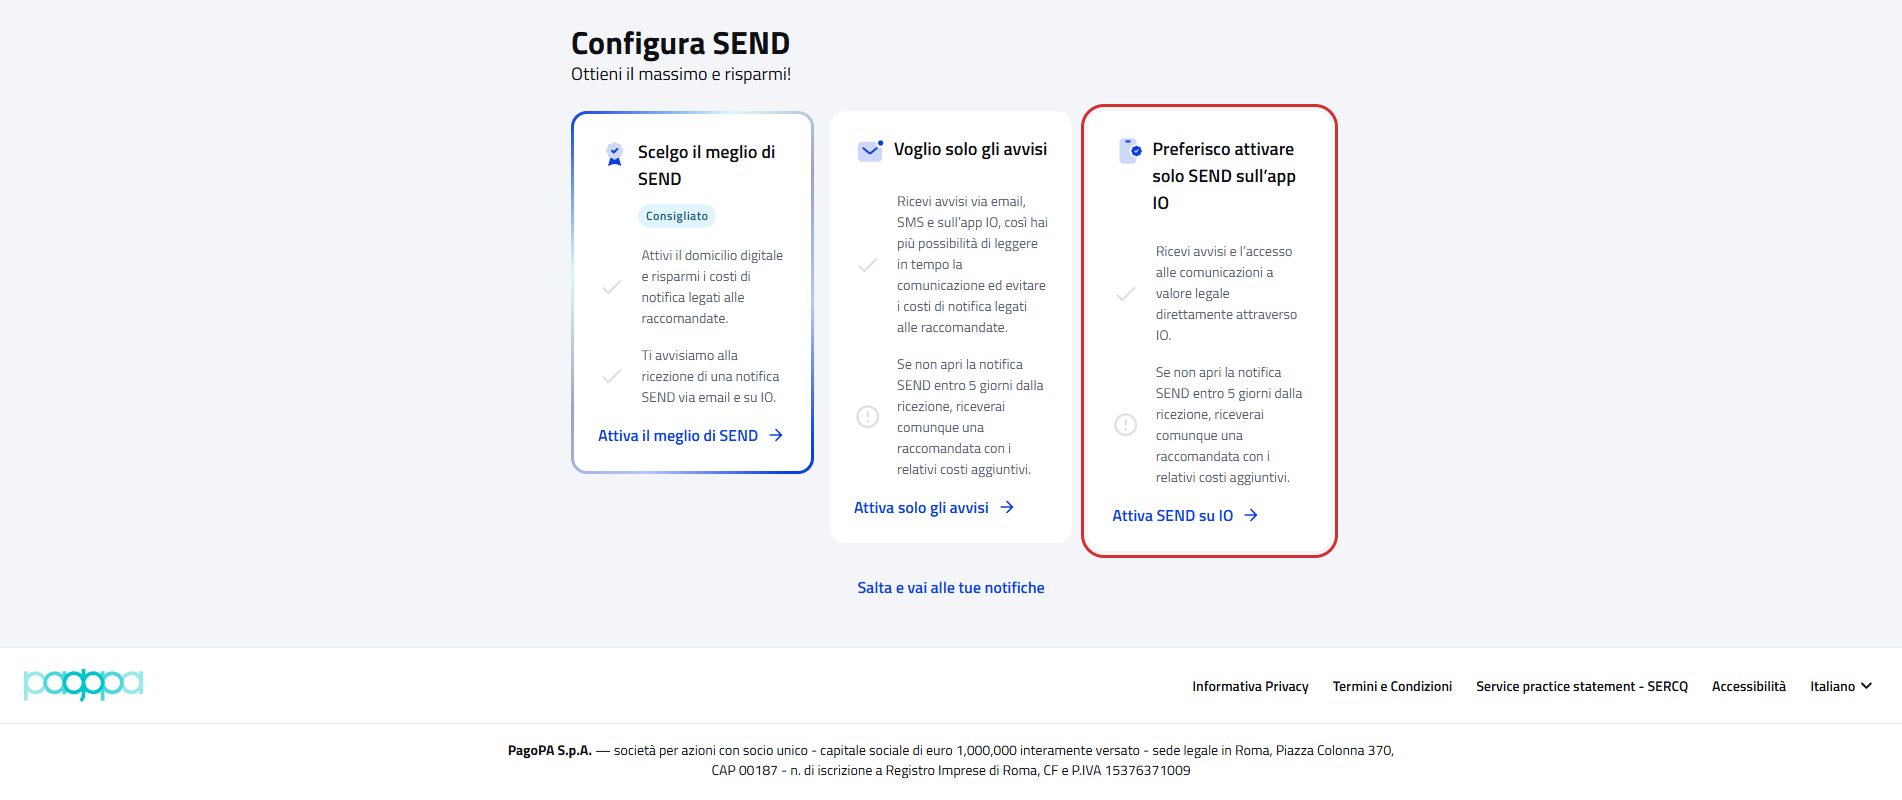
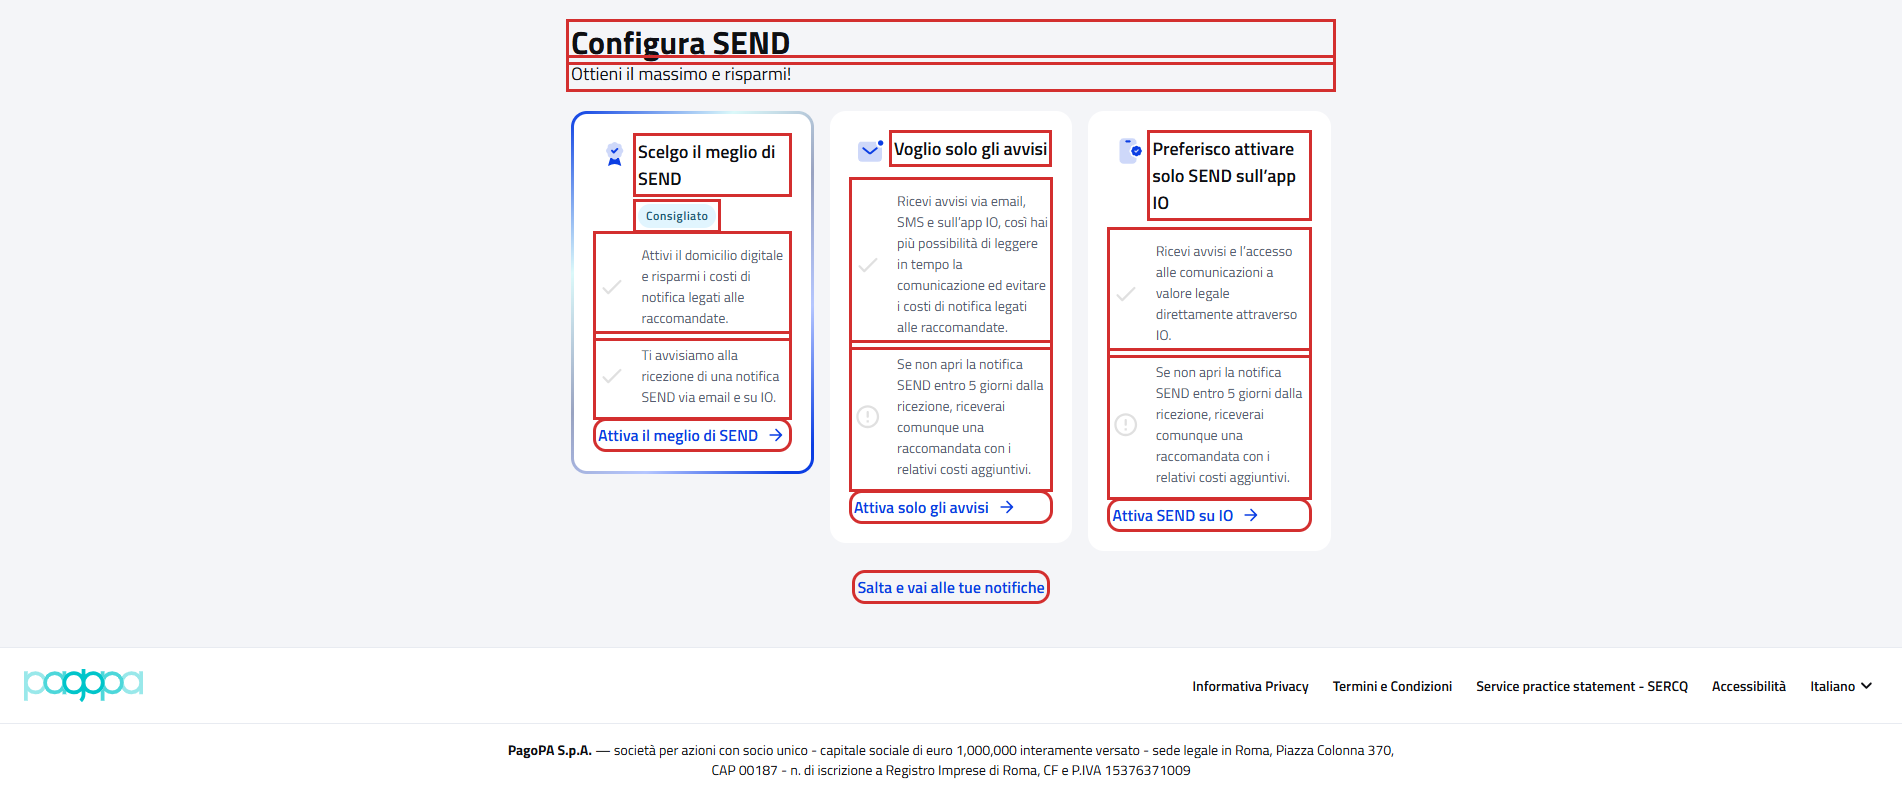
feat: [QA-17652] show the elements verified by each PF contract test

diff --git a/send/docs/pagine-pf/WebOnboardingDigitalDomicilePFContractTest.md b/send/docs/pagine-pf/WebOnboardingDigitalDomicilePFContractTest.md
@@ -10,12 +10,6 @@ Contract test del wizard di onboarding **"Il meglio di SEND"** del cittadino.
 - **Test di navigazione della pagina:** `WebRecipientPfNavigationContractTest#shouldReachOnboardingDigitalDomicilePF`,
   descritto in [WebRecipientPfNavigationContractTest.md](WebRecipientPfNavigationContractTest.md#onboarding-il-meglio-di-send)
 
-## La pagina
-
-![Il meglio di SEND](img/OnboardingDigitalDomicilePFPage.png)
-
-In rosso gli elementi verificati dall'`assertLoaded()`: titolo, "Esci" e indicatore dei passi.
-
 ## Cosa verifica
 
 L'`assertLoaded()` della pagina verifica solo che sia caricata, e quello di ogni passo che ci sia il titolo del passo.
@@ -45,6 +39,8 @@ I testi del blocco "Attiva SEND sull'app IO" sono gli stessi della pagina "Tutto
 
 ## Scenari
 
+Negli screenshot dei passi: in rosso gli elementi che il contract test legge e verifica, esclusi i messaggi di validazione.
+
 ### Testi comuni a tutti i passi (`shouldShowDigitalDomicileWizardTexts`)
 
 | Scenario | Cosa verifica |
@@ -59,11 +55,11 @@ I testi del blocco "Attiva SEND sull'app IO" sono gli stessi della pagina "Tutto
 
 Utente con PEC in attivazione (Lucrezia):
 
-![Passo 1, PEC in attivazione](img/OnboardingDigitalDomicilePFPage_ChooseDigitalDomicileSection.png)
+![Passo 1, PEC in attivazione](img/WebOnboardingDigitalDomicilePFContractTest/passo-1.png)
 
 Utente senza PEC:
 
-![Passo 1, scelta tra SEND e PEC](img/OnboardingDigitalDomicilePFPage_ChooseDigitalDomicileSection_scelta.png)
+![Passo 1, scelta tra SEND e PEC](img/WebOnboardingDigitalDomicilePFContractTest/passo-1-scelta.png)
 
 ### Passo 2 (`shouldShowPecSection`)
 
@@ -71,7 +67,7 @@ Utente senza PEC:
 |---|---|
 | se raggiungibile, passo associa una casella di posta con la PEC dell'utente | titolo, descrizione, etichetta "Indirizzo PEC" con la PEC, frase sugli avvisi con l'email, "Modifica", "Indietro" e "Continua" |
 
-![Passo 2](img/OnboardingDigitalDomicilePFPage_PecSection.png)
+![Passo 2](img/WebOnboardingDigitalDomicilePFContractTest/passo-2.png)
 
 ### Passo 3 (`shouldShowIoSection`)
 
@@ -79,7 +75,7 @@ Utente senza PEC:
 |---|---|
 | se raggiungibile, passo attiva gli avvisi su IO | titolo e descrizione del blocco IO, "Scarica l'app IO", "Ho già scaricato e installato l'app", "Indietro" e "Continua senza l'app IO" |
 
-![Passo 3](img/OnboardingDigitalDomicilePFPage_IoSection.png)
+![Passo 3](img/WebOnboardingDigitalDomicilePFContractTest/passo-3.png)
 
 ### Passo 4 (`shouldShowSummarySection`)
 
@@ -87,7 +83,7 @@ Utente senza PEC:
 |---|---|
 | se raggiungibile, passo riepilogo con conferma non premuta | titolo "Il tuo riepilogo", le due etichette del riepilogo, l'avviso "Monitora i recapiti che hai scelto…", "Indietro" e "Conferma" (non premuto) |
 
-![Passo 4](img/OnboardingDigitalDomicilePFPage_SummarySection.png)
+![Passo 4](img/WebOnboardingDigitalDomicilePFContractTest/passo-4.png)
 
 ### Validazioni (`shouldValidatePecSectionEmail`)
 

diff --git a/send/docs/pagine-pf/WebNewDelegationPFContractTest.md b/send/docs/pagine-pf/WebNewDelegationPFContractTest.md
@@ -34,6 +34,22 @@ Il form ha due livelli di validazione:
 Per questo gli scenari di validazione compilano i campi obbligatori, così il browser lascia passare l'invio e il
 portale mostra i propri messaggi.
 
+## Elementi verificati
+
+In rosso gli elementi che il contract test legge e verifica, esclusi i messaggi di validazione.
+
+All'apertura (persona fisica, tutti gli enti):
+
+![Aggiungi una delega](img/WebNewDelegationPFContractTest/pagina.png)
+
+Persona giuridica: la ragione sociale al posto di nome e cognome:
+
+![persona giuridica](img/WebNewDelegationPFContractTest/persona-giuridica.png)
+
+Solo enti selezionati, con l'elenco degli enti aperto:
+
+![solo enti selezionati](img/WebNewDelegationPFContractTest/solo-enti-selezionati.png)
+
 ## Scenari
 
 Il test è diviso in quattro gruppi, uno per aspetto della pagina. I nomi sono quelli che compaiono nel report dei
@@ -82,34 +98,3 @@ test; i testi attesi sono costanti in cima alla classe.
 | termine delega con data impossibile | "Data errata" uscendo dal campo, con il 31 febbraio |
 | termine delega con data incompleta | "Data errata" uscendo dal campo, con solo giorno e mese |
 
-## Stati verificati
-
-Gli screenshot mostrano lo stato della pagina negli scenari che modificano il form.
-
-**codice fiscale non valido**
-
-![codice fiscale non valido](img/WebNewDelegationPFContractTest/codice-fiscale-non-valido.png)
-
-**nome con spazi all'inizio o alla fine**
-
-![nome con spazi all'inizio o alla fine](img/WebNewDelegationPFContractTest/nome-con-spazi.png)
-
-**persona giuridica: ragione sociale al posto di nome e cognome**
-
-![persona giuridica](img/WebNewDelegationPFContractTest/persona-giuridica.png)
-
-**persona giuridica con codice fiscale non numerico**
-
-![persona giuridica con codice fiscale non numerico](img/WebNewDelegationPFContractTest/persona-giuridica-codice-fiscale-non-numerico.png)
-
-**solo enti selezionati: compare la scelta degli enti** (il fumetto è la validazione del browser sul campo vuoto)
-
-![solo enti selezionati](img/WebNewDelegationPFContractTest/solo-enti-selezionati.png)
-
-**solo enti selezionati: l'elenco degli enti contiene almeno un ente**
-
-![elenco degli enti](img/WebNewDelegationPFContractTest/elenco-enti.png)
-
-**termine delega vuoto**
-
-![termine delega vuoto](img/WebNewDelegationPFContractTest/termine-delega-vuoto.png)

diff --git a/send/docs/pagine-pf/WebOnboardingAlertsPFContractTest.md b/send/docs/pagine-pf/WebOnboardingAlertsPFContractTest.md
@@ -10,12 +10,6 @@ Contract test del wizard di onboarding **"Attivazione avvisi"** del cittadino.
 - **Test di navigazione della pagina:** `WebRecipientPfNavigationContractTest#shouldReachOnboardingAlertsPF`, descritto
   in [WebRecipientPfNavigationContractTest.md](WebRecipientPfNavigationContractTest.md#onboarding-attivazione-avvisi)
 
-## La pagina
-
-![Attivazione avvisi](img/OnboardingAlertsPFPage.png)
-
-In rosso gli elementi verificati dall'`assertLoaded()`: titolo, "Esci" e indicatore dei passi.
-
 ## Cosa verifica
 
 L'`assertLoaded()` della pagina verifica solo che sia caricata, e quello di ogni passo che il passo abbia un contenuto.
@@ -43,6 +37,8 @@ wizard "Il meglio di SEND": sono costanti condivise in `OnboardingIoExpectedText
 
 ## Scenari
 
+Negli screenshot dei passi: in rosso gli elementi che il contract test legge e verifica, esclusi i messaggi di validazione.
+
 ### Testi comuni a tutti i passi (`shouldShowAlertsWizardTexts`)
 
 | Scenario | Cosa verifica |
@@ -55,7 +51,7 @@ wizard "Il meglio di SEND": sono costanti condivise in `OnboardingIoExpectedText
 |---|---|
 | passo attiva gli avvisi su IO | titolo e descrizione del blocco IO, "Scarica l'app IO", "Ho già scaricato e installato l'app", "Indietro" e "Continua senza l'app IO" |
 
-![Passo 1](img/OnboardingAlertsPFPage_IoSection.png)
+![Passo 1](img/WebOnboardingAlertsPFContractTest/passo-1.png)
 
 ### Passo 2 (`shouldShowEmailSmsSection`)
 
@@ -65,11 +61,11 @@ wizard "Il meglio di SEND": sono costanti condivise in `OnboardingIoExpectedText
 
 Recapiti già attivi (Lucrezia):
 
-![Passo 2, recapiti attivi](img/OnboardingAlertsPFPage_EmailSmsSection.png)
+![Passo 2, recapiti attivi](img/WebOnboardingAlertsPFContractTest/passo-2.png)
 
 Recapiti da inserire:
 
-![Passo 2, recapiti da inserire](img/OnboardingAlertsPFPage_EmailSmsSection_da_inserire.png)
+![Passo 2, recapiti da inserire](img/WebOnboardingAlertsPFContractTest/passo-2-da-inserire.png)
 
 ### Validazioni (`shouldValidateEmailSmsSection`)
 

diff --git a/send/docs/pagine-pf/WebSupportPFContractTest.md b/send/docs/pagine-pf/WebSupportPFContractTest.md
@@ -36,6 +36,12 @@ Regole del form, ricavate dal portale il 06/10/2026:
 | conferma diversa dall'email, anche solo per le maiuscole | sotto la conferma: "L'indirizzo email di conferma non è uguale all'indirizzo email inserito" | disabilitato |
 | email valide e uguali | nessuno | abilitato |
 
+## Elementi verificati
+
+In rosso gli elementi che il contract test legge e verifica, esclusi i messaggi di validazione.
+
+![Come possiamo aiutarti?](img/WebSupportPFContractTest/pagina.png)
+
 ## Scenari
 
 Il test è diviso in quattro gruppi, uno per aspetto della pagina. I nomi sono quelli che compaiono nel report dei
@@ -75,24 +81,3 @@ test; i testi attesi sono costanti in cima alla classe.
 | solo email senza conferma: avanti disabilitato | "Avanti" disabilitato |
 | email valide e uguali: avanti abilitato | "Avanti" abilitato |
 
-## Stati verificati
-
-**email non valida**
-
-![email non valida](img/WebSupportPFContractTest/email-non-valida.png)
-
-**email con spazi all'inizio o alla fine**
-
-![email con spazi](img/WebSupportPFContractTest/email-con-spazi.png)
-
-**email di conferma diversa**
-
-![conferma diversa](img/WebSupportPFContractTest/conferma-diversa.png)
-
-**email di conferma uguale ma con maiuscole diverse**
-
-![conferma con maiuscole diverse](img/WebSupportPFContractTest/conferma-maiuscole-diverse.png)
-
-**email valide e uguali: avanti abilitato**
-
-![email valide](img/WebSupportPFContractTest/email-valide.png)

diff --git a/send/docs/pagine-pf/WebConfigureAddressSendPFContractTest.md b/send/docs/pagine-pf/WebConfigureAddressSendPFContractTest.md
@@ -10,13 +10,6 @@ Contract test della pagina di onboarding **"Configura SEND"** del cittadino.
 - **Test di navigazione della pagina:** `WebRecipientPfNavigationContractTest#shouldReachOnboardingPF`, descritto in
   [WebRecipientPfNavigationContractTest.md](WebRecipientPfNavigationContractTest.md#configura-send-onboarding)
 
-## La pagina
-
-![Configura SEND](img/ConfigureAddressSendPage.png)
-
-In rosso gli elementi verificati dall'`assertLoaded()`. La pagina è quella di un utente con recapiti di cortesia, quindi
-con le due card mostrate a tutti; la terza card è descritta più sotto.
-
 ## Cosa verifica
 
 L'`assertLoaded()` della pagina verifica solo che sia caricata: il titolo e la presenza dei pulsanti delle due card
@@ -44,6 +37,12 @@ leggono prima quali card sono mostrate e la verificano solo se c'è: Lucrezia ha
 il ramo con la card è stato eseguito il 07/10/2026 con un utente senza recapiti di cortesia.
 
 ![Configura SEND con la terza card](img/WebConfigureAddressSendPFContractTest/card-io.png)
+
+## Elementi verificati
+
+In rosso gli elementi che il contract test legge e verifica, esclusi i messaggi di validazione.
+
+![Configura SEND (utente con recapiti di cortesia)](img/WebConfigureAddressSendPFContractTest/pagina.png)
 
 ## Scenari
 

diff --git a/send/docs/pagine-pf/WebOnboardingIoPFContractTest.md b/send/docs/pagine-pf/WebOnboardingIoPFContractTest.md
@@ -9,12 +9,6 @@ Contract test della pagina di onboarding **"Tutto, sull'app IO"** del cittadino.
 - **Test di navigazione della pagina:** `WebRecipientPfNavigationContractTest#shouldReachOnboardingIoPF`, descritto in
   [WebRecipientPfNavigationContractTest.md](WebRecipientPfNavigationContractTest.md#onboarding-tutto-sullapp-io)
 
-## La pagina
-
-![Tutto, sull'app IO](img/OnboardingIoPFPage.png)
-
-In rosso gli elementi verificati dall'`assertLoaded()`.
-
 ## Da dove si arriva
 
 Dal portale la pagina si apre **solo dalla terza card** di "Configura SEND" (`{baseUrl}/onboarding`), "Preferisco
@@ -42,6 +36,12 @@ Nessuno scenario preme i pulsanti della sezione dell'app IO.
 
 La pagina contiene anche i pulsanti "Indietro" e "Conferma" del wizard, ma sono nascosti perché il wizard ha un solo
 passo: non sono mappati né verificati.
+
+## Elementi verificati
+
+In rosso gli elementi che il contract test legge e verifica, esclusi i messaggi di validazione.
+
+![Tutto, sull'app IO](img/WebOnboardingIoPFContractTest/pagina.png)
 
 ## Scenari
 

diff --git a/send/docs/pagine-pf/WebDelegationsPFContractTest.md b/send/docs/pagine-pf/WebDelegationsPFContractTest.md
@@ -34,6 +34,18 @@ un utente che ha sia delegati sia deleghe a carico.
 
 Nessuno scenario crea, accetta, rifiuta o revoca deleghe.
 
+## Elementi verificati
+
+In rosso gli elementi che il contract test legge e verifica, esclusi i messaggi di validazione.
+
+Utente senza deleghe (Lucrezia):
+
+![Deleghe, utente senza deleghe](img/WebDelegationsPFContractTest/pagina.png)
+
+Utente con delegati e deleghe a carico:
+
+![Deleghe, utente con deleghe](img/WebDelegationsPFContractTest/con-deleghe.png)
+
 ## Scenari
 
 Il test è diviso in tre gruppi, uno per aspetto della pagina. I nomi sono quelli che compaiono nel report dei test; i

diff --git a/send/docs/pagine-pf/WebProfilePFContractTest.md b/send/docs/pagine-pf/WebProfilePFContractTest.md
@@ -21,6 +21,12 @@ I dati sono ricavati da SPID o CIE e non sono modificabili: la pagina non ha for
 confrontati con quelli dell'utente con cui si apre la pagina (`Recipient.LUCREZIA`: `denomination`, `familyName` e
 `taxId`), quindi il test verifica anche che la pagina mostri i dati dell'utente giusto.
 
+## Elementi verificati
+
+In rosso gli elementi che il contract test legge e verifica, esclusi i messaggi di validazione.
+
+![I tuoi dati](img/WebProfilePFContractTest/pagina.png)
+
 ## Scenari
 
 ### Testi della pagina (`shouldShowProfileTexts`)

diff --git a/send/docs/pagine-pf/WebAppStatusPFContractTest.md b/send/docs/pagine-pf/WebAppStatusPFContractTest.md
@@ -36,6 +36,12 @@ Il 07/10/2026 sull'ambiente di test tutti i servizi erano operativi e lo storico
 sono stati eseguiti i rami con lo storico e la paginazione. Il caso di un disservizio in corso non si può provocare
 dal test e non è stato eseguito.
 
+## Elementi verificati
+
+In rosso gli elementi che il contract test legge e verifica, esclusi i messaggi di validazione.
+
+![Stato della piattaforma](img/WebAppStatusPFContractTest/pagina.png)
+
 ## Scenari
 
 ### Testi della pagina (`shouldShowAppStatusTexts`)

diff --git a/send/docs/pagine-pf/WebSercqTermsOfServicePFContractTest.md b/send/docs/pagine-pf/WebSercqTermsOfServicePFContractTest.md
@@ -22,6 +22,12 @@ il documento cambia il test fallisce e va aggiornato insieme al documento.
 
 La pagina contiene due indici: uno per desktop e uno per mobile, nascosto. Il test usa quello per desktop.
 
+## Elementi verificati
+
+In rosso gli elementi che il contract test legge e verifica, esclusi i messaggi di validazione.
+
+![Termini e condizioni d'uso SERCQ](img/WebSercqTermsOfServicePFContractTest/pagina.png)
+
 ## Scenari
 
 ### Testi della pagina (`shouldShowSercqTermsOfServiceTexts`)

diff --git a/send/docs/pagine-pf/WebTermsOfServicePFContractTest.md b/send/docs/pagine-pf/WebTermsOfServicePFContractTest.md
@@ -22,6 +22,12 @@ il documento cambia il test fallisce e va aggiornato insieme al documento.
 
 La pagina contiene due indici: uno per desktop e uno per mobile, nascosto. Il test usa quello per desktop.
 
+## Elementi verificati
+
+In rosso gli elementi che il contract test legge e verifica, esclusi i messaggi di validazione.
+
+![Termini e condizioni d'uso](img/WebTermsOfServicePFContractTest/pagina.png)
+
 ## Scenari
 
 ### Testi della pagina (`shouldShowTermsOfServiceTexts`)
